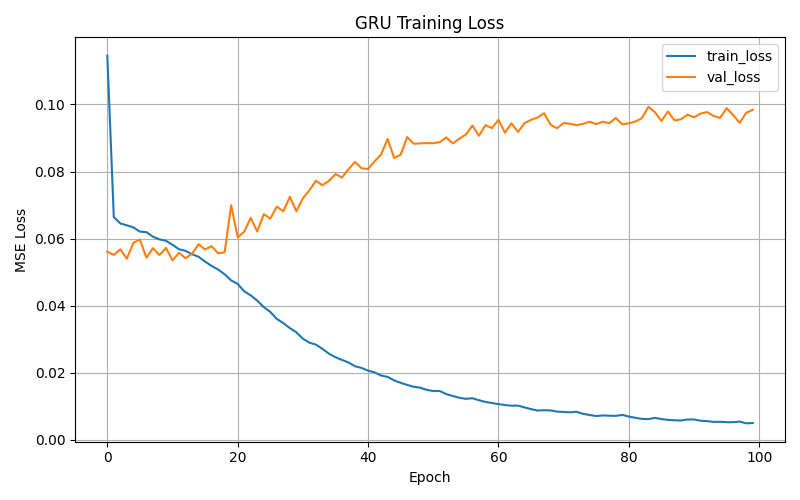
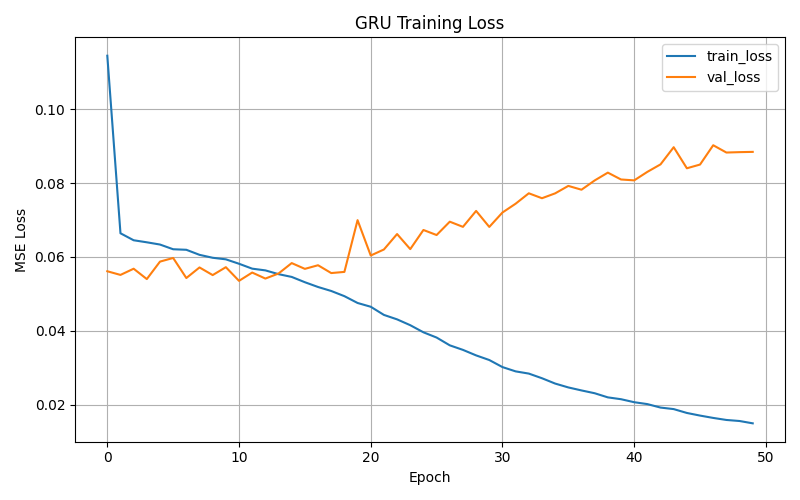
review

diff --git a/models.py b/models.py
@@ -18,20 +18,21 @@ class MLPRegressor(nn.Module):
         """
         super().__init__()
 
-        in_features = seq_len * input_dim
+        in_features = seq_len * input_dim # 24 x 14
 
         self.net = nn.Sequential(
-            nn.Flatten(),
+            nn.Flatten(),   # 铺平： batch_size x 336
 
-            nn.Linear(in_features, hidden_dim),
+            nn.Linear(in_features, hidden_dim), # batch_size x 128
+            nn.ReLU(),  # < 0 ==> 0；> 0 == x。增加模型非线性能力
+            nn.Dropout(dropout),    # 随机把 20% 的神经元输出置为 0，防止模型过拟合
+
+            nn.Linear(hidden_dim, hidden_dim // 2), # batch_size x 64
             nn.ReLU(),
             nn.Dropout(dropout),
 
-            nn.Linear(hidden_dim, hidden_dim // 2),
-            nn.ReLU(),
-            nn.Dropout(dropout),
-
-            nn.Linear(hidden_dim // 2, 1),
+            nn.Linear(hidden_dim // 2, 1), # batch_size x 1
+            # 最终每个样本输出一个数
         )
 
     def forward(self, x):
@@ -65,11 +66,12 @@ class RNNRegressor(nn.Module):
         super().__init__()
 
         self.rnn = nn.RNN(
-            input_size=input_dim,
-            hidden_size=hidden_dim,
-            num_layers=num_layers,
-            batch_first=True,
+            input_size=input_dim,   # 输入特征
+            hidden_size=hidden_dim, # 隐藏状态维度
+            num_layers=num_layers,  # RNN 层数
+            batch_first=True,   # 是否第一维为 batch size
             dropout=dropout if num_layers > 1 else 0.0,
+            # 最终输出 batch_size x hidden_him
         )
 
         self.fc = nn.Linear(hidden_dim, 1)
@@ -86,8 +88,10 @@ class RNNRegressor(nn.Module):
             [num_layers, batch_size, hidden_dim]
         """
         rnn_output, h_n = self.rnn(x)
+        # rnn_output：每个时间步的隐藏状态输出 [batch_size, sql_len, hidden_dim]
+        # h_n：每一层 RNN 的最后隐藏状态 [layers_size, batch_size, hidden_dim]
 
-        # 取最后一层 RNN 的最后隐藏状态
+        # 取最后一层 RNN 的最后隐藏状态，即模型读完过去 24 小时之后，对整个历史窗口的总结
         last_hidden = h_n[-1]
 
         # 用最后隐藏状态预测下一小时 PM2.5
@@ -219,6 +223,7 @@ def main():
         batch_size=batch_size,
     )
 
+    # 取一个 batch 的数据
     x_batch, y_batch = next(iter(train_loader))
     input_dim = x_batch.shape[-1]
 

diff --git a/data_process.py b/data_process.py
@@ -3,7 +3,7 @@ import json
 
 import joblib
 import pandas as pd
-from sklearn.preprocessing import StandardScaler
+from sklearn.preprocessing import StandardScaler    # 标准化数据的工具
 
 
 RAW_DATA_PATH = Path("data/raw/beijing_pm25.csv")
@@ -53,6 +53,7 @@ def main():
     print("处理后缺失数量:", after_missing)
 
     # 5. 对 cbwd 风向做 one-hot 编码
+    # 把 cbwd 风向，从 cbwd 列变成 cbwd_NE, cbwd_NW, cbwd_SE, cbwd_cv 四列
     df = pd.get_dummies(df, columns=["cbwd"], prefix="cbwd", dtype=int)
 
     print("\n" + "=" * 80)
@@ -109,12 +110,20 @@ def main():
 
     # 9. 标准化
     # 只在训练集上 fit，验证集和测试集只 transform
-    scaler = StandardScaler()
+    # 创建一个标准化器
+    scaler = StandardScaler()   # 标准化值 = (原始值 - 训练集均值) / 训练集标准差
 
+    # fit：计算训练集均值和标准差
+    # transform：对训练集、验证集和测试集做标准化
+    # fit_transform：先 fit 再 transform
+    # 只用在训练集上 fit，验证集和测试集只 transform
+    # 因为验证集和测试集的均值和标准差，应该用训练集的均值和标准差
     train_scaled_values = scaler.fit_transform(train_df[feature_cols])
     val_scaled_values = scaler.transform(val_df[feature_cols])
     test_scaled_values = scaler.transform(test_df[feature_cols])
 
+    # 把标准化后的值，转换成 DataFrame
+    # 把标准化后的数组重新包装成表格，并且把列名加回来
     train_scaled_df = pd.DataFrame(train_scaled_values, columns=feature_cols)
     val_scaled_df = pd.DataFrame(val_scaled_values, columns=feature_cols)
     test_scaled_df = pd.DataFrame(test_scaled_values, columns=feature_cols)

diff --git a/train.py b/train.py
@@ -16,6 +16,12 @@ from models import MLPRegressor, RNNRegressor, GRURegressor, LSTMRegressor, coun
 CHECKPOINT_DIR = Path("checkpoints")
 RESULTS_DIR = Path("results")
 
+# 训练过程中有喝多随机因素：
+# - DataLoader shuffle 会随机打乱样本
+# - 模型参数初始化是随机的
+# - Dropout 随机丢弃神经元
+# - GPu 上某些操作也可能有随机性
+# 固定种子后，尽量让这些随机过程变得可复现
 
 def set_seed(seed=42):
     """
@@ -84,6 +90,7 @@ def train_one_epoch(
     total_loss = 0.0
     total_samples = 0
 
+    # 创建进度条
     progress_bar = tqdm(data_loader, desc="Train", leave=False)
 
     for x_batch, y_batch in progress_bar:
@@ -114,7 +121,7 @@ def train_one_epoch(
         total_loss += loss.item() * batch_size
         total_samples += batch_size
 
-        progress_bar.set_postfix(loss=loss.item())
+        progress_bar.set_postfix(loss=loss.item())  # 在 tqdm 进度条上显示当前 batch 的 loss
 
     avg_loss = total_loss / total_samples
     return avg_loss

diff --git a/download_data.py b/download_data.py
@@ -1,7 +1,7 @@
-from pathlib import Path
+from pathlib import Path    # 处理路径的工具
 
-import pandas as pd
-from ucimlrepo import fetch_ucirepo
+import pandas as pd    # 处理表格数据的工具
+from ucimlrepo import fetch_ucirepo    # 从 UCI 下载数据集的工具
 
 
 def main():